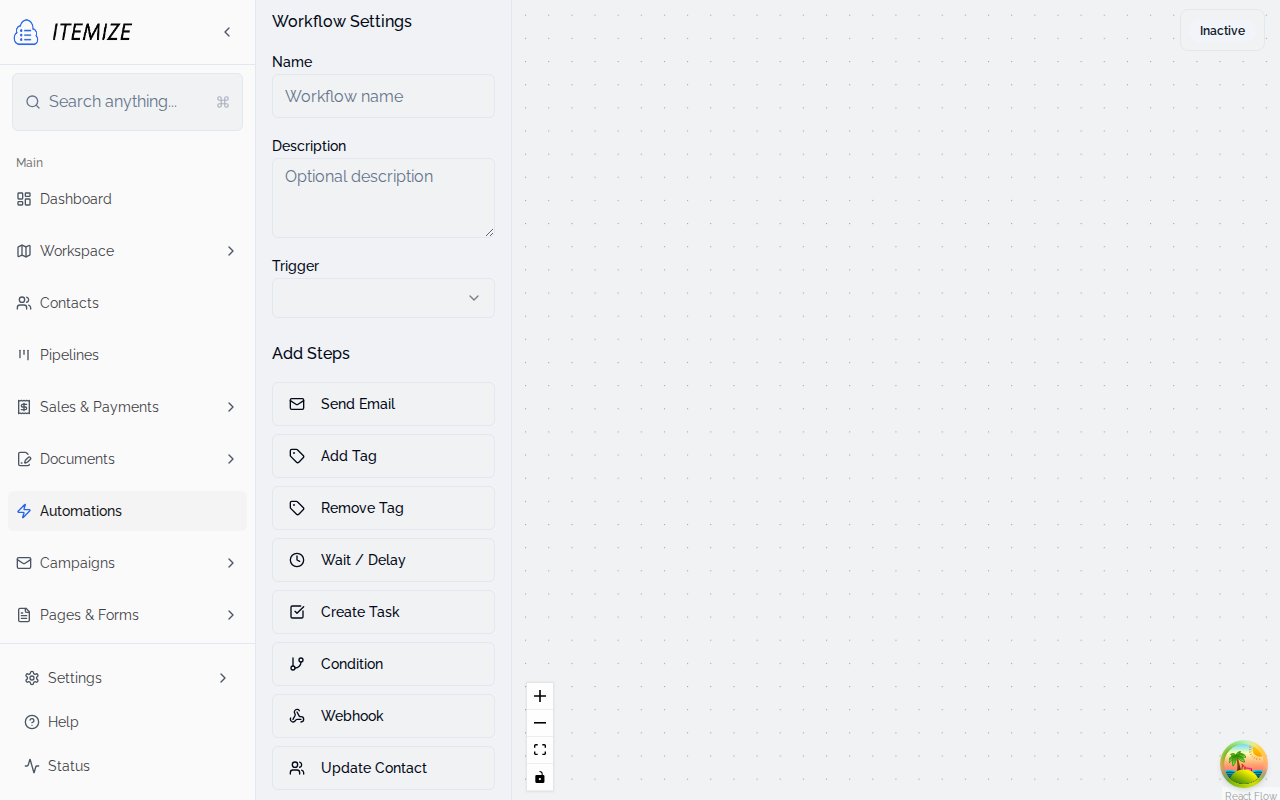
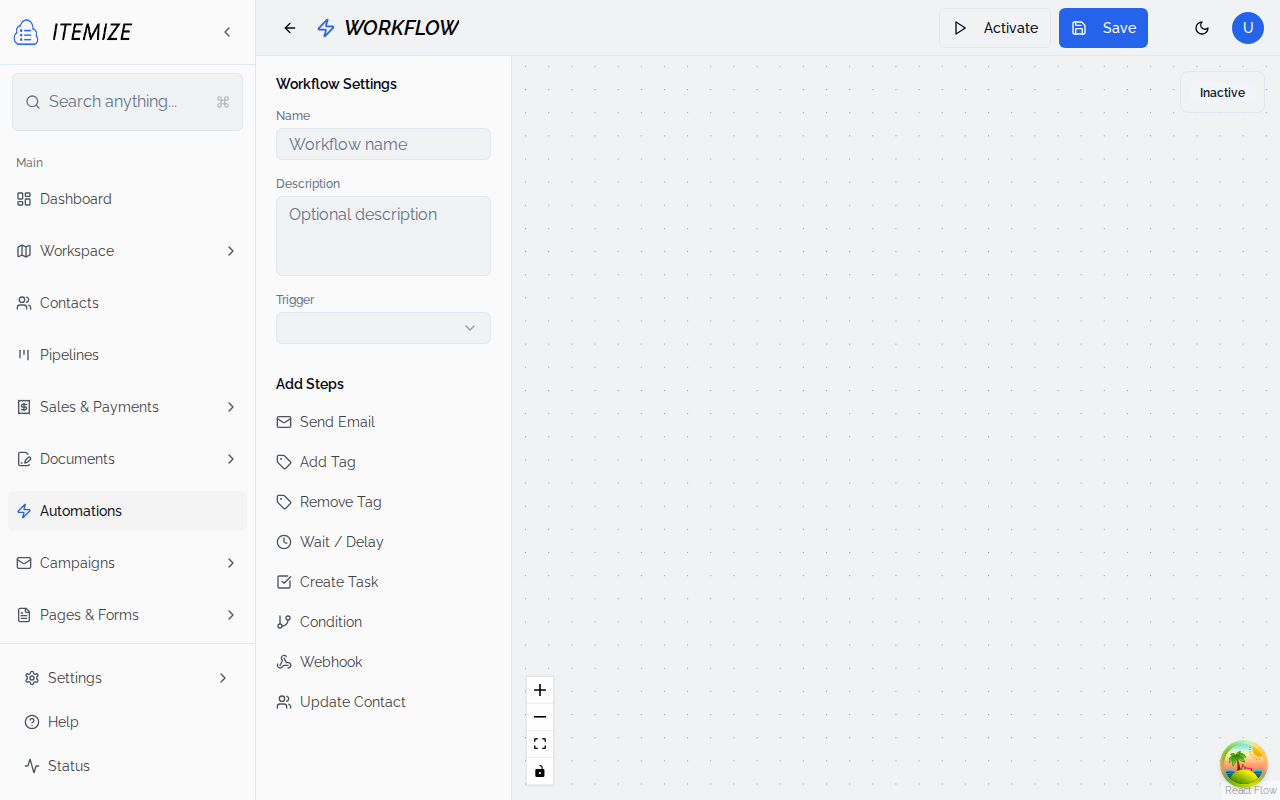
feat: Match workflow builder sidebar style and update screenshot
- Refactored `WorkflowBuilderPage.tsx` sidebar to match the visual language of `AppSidebar` using `font-raleway`, `.bg-sidebar`, `.text-sidebar-foreground`, and `.group-hover/menu-button:text-blue-600` styling.
- Re-ran the Playwright screenshot capture script to regenerate `automations.png` reflecting the updated sidebar.
- Removed a duplicate empty script file (`scripts/playwright/capture_automations.py`).

diff --git a/frontend/src/pages/automations/WorkflowBuilderPage.tsx b/frontend/src/pages/automations/WorkflowBuilderPage.tsx
@@ -551,59 +551,67 @@ export function WorkflowBuilderPage() {
         </Button>
       </MobileControlsBar>
       <div className="h-full flex">
-        {/* Left sidebar - Step palette */}
-      <div className="w-64 border-r bg-muted/20 p-4 overflow-y-auto">
-        <h3 className="font-medium mb-4">Workflow Settings</h3>
-        
-        <div className="space-y-4 mb-6">
-          <div>
-            <Label>Name</Label>
-            <Input
-              value={name}
-              onChange={(e) => setName(e.target.value)}
-              placeholder="Workflow name"
-            />
+      {/* Left sidebar - Step palette */}
+      <div className="w-64 border-r bg-sidebar p-3 overflow-y-auto text-sidebar-foreground">
+        <div className="mb-6">
+          <div className="flex h-8 shrink-0 items-center rounded-md px-2 text-xs font-medium text-sidebar-foreground/70 outline-none">
+            <span className="font-raleway text-sm font-semibold text-foreground">Workflow Settings</span>
           </div>
-          <div>
-            <Label>Description</Label>
-            <Textarea
-              value={description}
-              onChange={(e) => setDescription(e.target.value)}
-              placeholder="Optional description"
-              rows={2}
-            />
-          </div>
-          <div>
-            <Label>Trigger</Label>
-            <Select value={triggerType} onValueChange={setTriggerType}>
-              <SelectTrigger>
-                <SelectValue />
-              </SelectTrigger>
-              <SelectContent>
-                {TRIGGER_TYPES.map((t) => (
-                  <SelectItem key={t.value} value={t.value}>
-                    {t.label}
-                  </SelectItem>
-                ))}
-              </SelectContent>
-            </Select>
+
+          <div className="space-y-4 px-2 mt-2">
+            <div>
+              <Label className="text-xs text-muted-foreground mb-1 block">Name</Label>
+              <Input
+                value={name}
+                onChange={(e) => setName(e.target.value)}
+                placeholder="Workflow name"
+                className="h-8 bg-background shadow-none focus-visible:ring-2 focus-visible:ring-sidebar-ring"
+              />
+            </div>
+            <div>
+              <Label className="text-xs text-muted-foreground mb-1 block">Description</Label>
+              <Textarea
+                value={description}
+                onChange={(e) => setDescription(e.target.value)}
+                placeholder="Optional description"
+                rows={3}
+                className="resize-none bg-background shadow-none focus-visible:ring-2 focus-visible:ring-sidebar-ring text-sm"
+              />
+            </div>
+            <div>
+              <Label className="text-xs text-muted-foreground mb-1 block">Trigger</Label>
+              <Select value={triggerType} onValueChange={setTriggerType}>
+                <SelectTrigger className="h-8 bg-background shadow-none focus-visible:ring-2 focus-visible:ring-sidebar-ring">
+                  <SelectValue />
+                </SelectTrigger>
+                <SelectContent>
+                  {TRIGGER_TYPES.map((t) => (
+                    <SelectItem key={t.value} value={t.value}>
+                      {t.label}
+                    </SelectItem>
+                  ))}
+                </SelectContent>
+              </Select>
+            </div>
           </div>
         </div>
 
-        <h3 className="font-medium mb-4">Add Steps</h3>
-        <div className="space-y-2">
-          {STEP_TYPES.map((step) => (
-            <Button
-              key={step.value}
-              variant="outline"
-              className="w-full justify-start"
-              onClick={() => handleAddStep(step.value)}
-            >
-              <step.icon className="h-4 w-4 mr-2" />
-              {step.label}
-            </Button>
-          ))}
+        <div className="flex h-8 shrink-0 items-center rounded-md px-2 text-xs font-medium text-sidebar-foreground/70 outline-none">
+          <span className="font-raleway text-sm font-semibold text-foreground">Add Steps</span>
         </div>
+        <ul className="flex w-full min-w-0 flex-col gap-1 mt-1">
+          {STEP_TYPES.map((step) => (
+            <li key={step.value} className="relative">
+              <button
+                className="group/menu-button flex h-9 w-full items-center gap-2 overflow-hidden rounded-md px-2 text-left text-sm outline-none ring-sidebar-ring transition-[width,height,padding] hover:bg-sidebar-accent hover:text-sidebar-accent-foreground focus-visible:ring-2 active:bg-sidebar-accent active:text-sidebar-accent-foreground disabled:pointer-events-none disabled:opacity-50 aria-disabled:pointer-events-none aria-disabled:opacity-50 font-raleway text-sidebar-foreground"
+                onClick={() => handleAddStep(step.value)}
+              >
+                <step.icon className="h-4 w-4 shrink-0 text-gray-600 dark:text-gray-400 group-hover/menu-button:text-blue-600 transition-colors" />
+                <span className="truncate">{step.label}</span>
+              </button>
+            </li>
+          ))}
+        </ul>
       </div>
 
       {/* Main canvas */}

diff --git a/scripts/capture-automations.py b/scripts/capture-automations.py
@@ -322,7 +322,7 @@ def main():
         """)
 
         print("Taking screenshot...")
-        page.screenshot(path="../frontend/public/screenshots/automations.png")
+        page.screenshot(path="frontend/public/screenshots/automations.png")
         print("Done!")
 
         browser.close()
